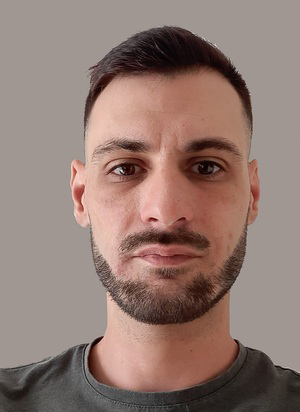
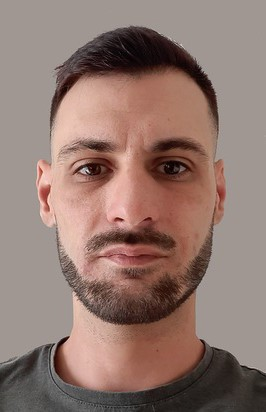
minor changes

diff --git a/index.html b/index.html
@@ -96,7 +96,7 @@
 
             <div class="row">
                 <div class="col-lg-4">
-                    <img src="assets/img/profile-img.jpg" alt="">
+                    <img src="assets/img/profile-img2.jpg" alt="">
                 </div>
                 <div class="col-lg-8 pt-4 pt-lg-0 content">
                     <h3>Java Developer.</h3>
